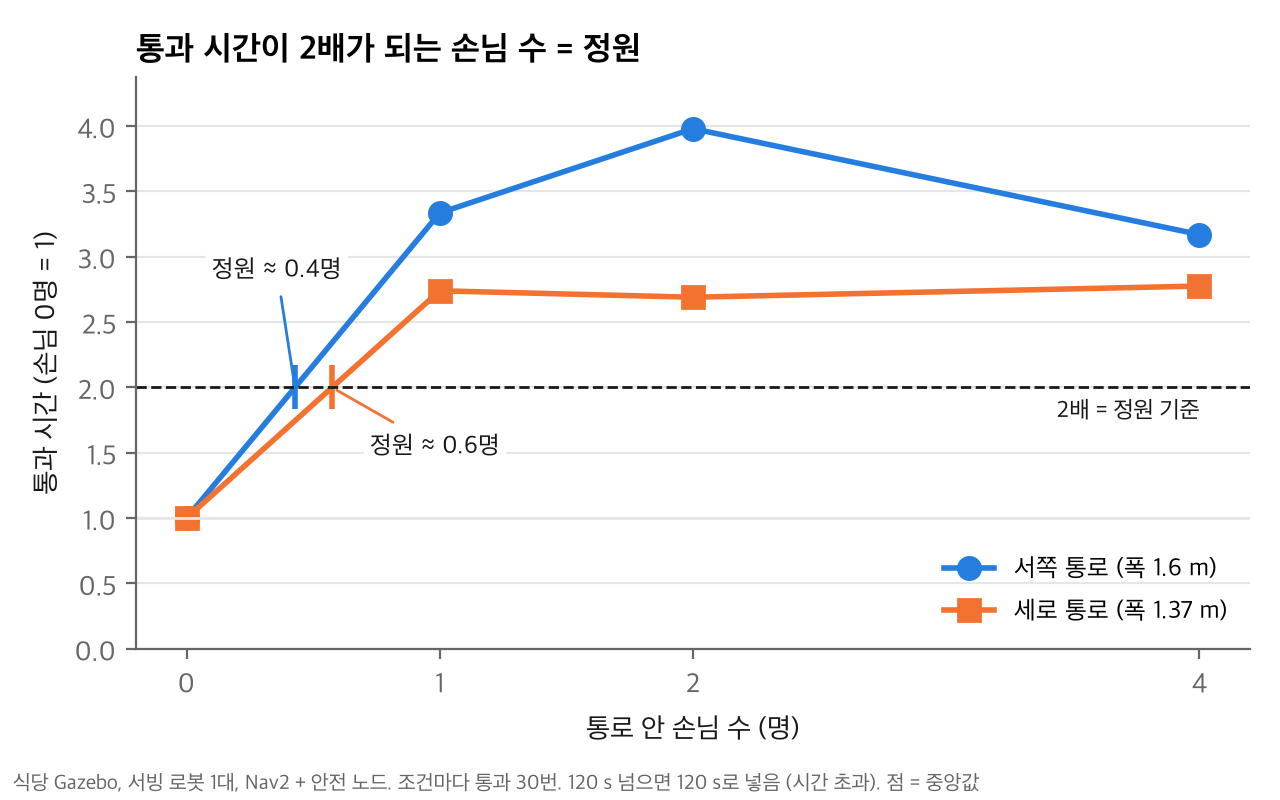
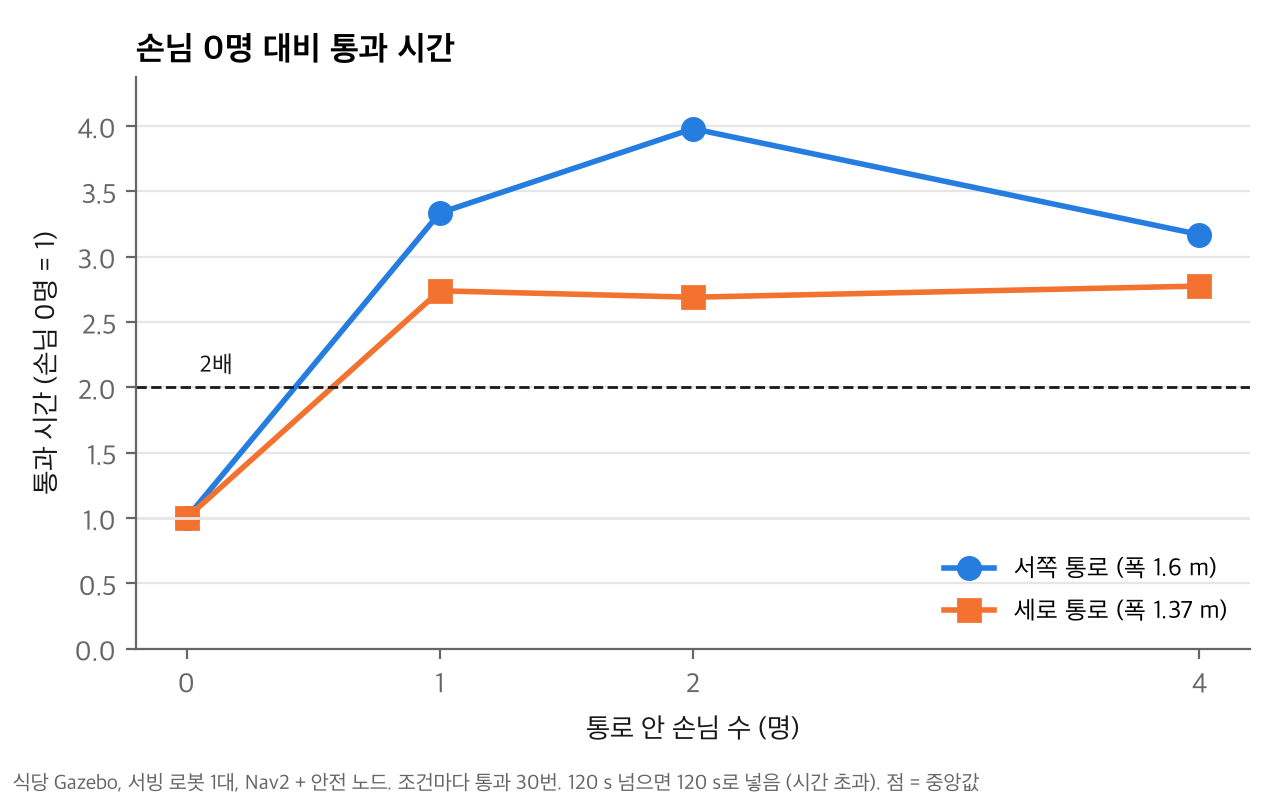
docs(experiments): 구역 정원 결과 해석 수정 — 정원 대신 교착 발견으로
손님 1명만 있어도 통과의 30~50%가 120 s 안에 못 지나가(교착), 2배 기준 0.4~0.6명은 정원으로 쓰지 않는다.
- analyze: 시간 초과를 뺀 통과만의 표 추가
- plots: E(가정 vs 측정 정원) 빼고 F(교착 비율)·G(지나간 통과만 배수) 추가, B에서 정원 표시 제거
- README: 결과를 교착 해석으로 다시 씀, 정원은 기존 값 유지·교착 수정 후 재측정

diff --git a/experiments/zone_capacity/plots.py b/experiments/zone_capacity/plots.py
@@ -8,8 +8,12 @@
   B_relative      손님 수 → 상대 통과 시간 (손님 0명 = 1) + "2배 = 정원" 기준선. 두 통로를 한 축에
   C_distribution  통과 한 번씩 (시간 초과는 세모로 제한 시간에) + 중앙값 막대
   D_within60      60 s 안에 지나간 비율
-  E_capacity      정원: 가정값(통로 길이) vs 측정값(통과 시간 2배)
-  poster          B + E 한 장 (흑백)
+  F_deadlock      120 s 안에 못 지나간 비율 (로봇 안전 정지와 손님 양보가 서로 기다리는 교착)
+  G_relative_ok   B와 같되 시간 초과를 뺀 통과만 (교착을 빼면 얼마나 느려지나)
+  poster          B + F 한 장 (흑백)
+
+11/28 결과에서 "2배가 되는 손님 수"는 0.4~0.6명이었지만 시간 초과(교착)가 30~50%라 정원으로 쓰지 않았다.
+그래서 정원 표시는 그리지 않고, 2배 선만 기준으로 둔다 (README "결과")
 """
 
 import argparse
@@ -38,7 +42,6 @@ plt.rcParams.update({'axes.unicode_minus': False, 'axes.spines.top': False, 'axe
                      'axes.titlelocation': 'left'})
 
 NAMES = {'west_aisle': '서쪽 통로 (폭 1.6 m)', 'aisle_3': '세로 통로 (폭 1.37 m)'}
-ASSUMED = {'west_aisle': 3, 'aisle_3': 3}       # 7·12구역의 가정값 (통로 길이 2.3 m당 1명)
 STYLE = {   # 통로별 고정 순서: 컬러는 기본 팔레트 1·2번, 흑백은 검정·회색 + 마커 모양
     'color': {'west_aisle': dict(c='#257de0', m='o', ls='-'), 'aisle_3': dict(c='#f47230', m='s', ls='-')},
     'mono': {'west_aisle': dict(c='#191919', m='o', ls='-'), 'aisle_3': dict(c='#8a8a8a', m='s', ls='--')},
@@ -65,7 +68,9 @@ def stats(data):
             xs = [p['time_s'] for p in sel]
             cens = sum(1 for p in sel if p['censored'])
             lo, hi = boot_ci(xs)
+            ok = [p['time_s'] for p in sel if not p['censored']]
             rows.append({'n': n, 'xs': xs, 'med': median(xs), 'lo': lo, 'hi': hi, 'k': len(xs), 'cens': cens,
+                         'ok_med': median(ok) if ok else None, 'ok_k': len(ok),
                          'within60': sum(1 for p in sel if not p['censored'] and p['time_s'] <= 60) / len(sel)})
         t0 = rows[0]['med']
         out[z] = {'rows': rows, 't0': t0, 'fit': summary[z].get('fit'), 'dbl': summary[z].get('doubling_n')}
@@ -112,38 +117,32 @@ def plot_a(zones, st, mode, out):
     plt.close(fig)
 
 
-def plot_b(zones, st, mode, out, ax=None):
+def plot_b(zones, st, mode, out, ax=None, key='med'):
+    """key='med': 시간 초과를 120 s로 넣은 중앙값 (B), 'ok_med': 시간 초과를 뺀 통과만의 중앙값 (G)"""
     own = ax is None
     if own:
         fig, ax = plt.subplots(figsize=(6.4, 4.0))
     top = 1
     for z in zones:
         s, rows, t0 = STYLE[mode][z], st[z]['rows'], st[z]['t0']
-        ns = [r['n'] for r in rows]
-        ys = [r['med'] / t0 for r in rows]
+        t0 = rows[0][key]
+        pts = [(r['n'], r[key] / t0) for r in rows if r[key] is not None]
+        ns, ys = [n for n, _ in pts], [y for _, y in pts]
         top = max(top, max(ys))
         ax.plot(ns, ys, marker=s['m'], ls=s['ls'], color=s['c'], lw=2, ms=8, label=NAMES[z])
-        d = st[z]['dbl']
-        if d is not None:
-            ax.plot([d], [2.0], marker='|', color=s['c'], ms=16, mew=2)
-            first = z == zones[0]
-            # 첫 통로는 왼쪽 위(축 숫자와 안 겹치게 x 0.1부터), 둘째는 오른쪽 아래
-            ax.annotate(f'정원 ≈ {d:.1f}명', (d, 2.0), xytext=(0.1, 2.9) if first else (d + 0.15, 1.55),
-                        textcoords='data', ha='left', va='center', fontsize=9, color='#191919', arrowprops=dict(arrowstyle='-', color=s['c'], lw=1),
-                        bbox=dict(boxstyle='round,pad=0.25', fc='white', ec='none'))
     ax.axhline(2.0, color='#191919', lw=1, ls='--')
-    xmax = max(r['n'] for z in zones for r in st[z]['rows'])
-    ax.text(xmax, 1.93, '2배 = 정원 기준', fontsize=8.5, color='#191919', va='top', ha='right')
+    ax.text(0.05, 2.06, '2배', fontsize=8.5, color='#191919', va='bottom', ha='left')   # 왼쪽 끝은 선이 1 근처라 비어 있다
     ax.axhline(1.0, color=GRID, lw=1)
     ax.set_xlabel('통로 안 손님 수 (명)')
     ax.set_ylabel('통과 시간 (손님 0명 = 1)')
-    ax.set_title('통과 시간이 2배가 되는 손님 수 = 정원')
+    ax.set_title('손님 0명 대비 통과 시간' if key == 'med' else '시간 초과를 뺀 통과만: 손님 0명 대비')
     ax.set_xticks(sorted({r['n'] for z in zones for r in st[z]['rows']}))
     ax.set_ylim(0, max(4.0, top * 1.1))
     grid(ax)
     ax.legend(frameon=False, fontsize=9, loc='lower right')
     if own:
-        note(fig, FOOT.format(k=st[zones[0]]['rows'][0]['k']) + '. 점 = 중앙값')
+        extra = '. 점 = 중앙값' if key == 'med' else '. 점 = 지나간 통과만의 중앙값'
+        note(fig, FOOT.format(k=st[zones[0]]['rows'][0]['k']) + extra)
         fig.tight_layout(rect=(0, 0.03, 1, 1))
         fig.savefig(out, dpi=200)
         plt.close(fig)
@@ -201,40 +200,40 @@ def plot_d(zones, st, mode, out):
     plt.close(fig)
 
 
-def plot_e(zones, st, mode, out, ax=None):
+def plot_f(zones, st, mode, out, ax=None):
     own = ax is None
     if own:
-        fig, ax = plt.subplots(figsize=(5.6, 3.2))
-    ys = list(range(len(zones)))[::-1]
-    for y, z in zip(ys, zones):
+        fig, ax = plt.subplots(figsize=(6.4, 3.8))
+    ns = sorted({r['n'] for z in zones for r in st[z]['rows']})
+    w = 0.36
+    for i, z in enumerate(zones):
         s = STYLE[mode][z]
-        a, m = ASSUMED[z], st[z]['dbl']
-        ax.plot([m if m is not None else 0, a], [y, y], color=GRID, lw=6, solid_capstyle='round')
-        ax.plot([a], [y], marker='o', ms=11, mfc='white', mec=TEXT2, mew=2, ls='none')
-        ax.text(a, y + 0.22, f'가정 {a}명', ha='center', fontsize=9, color=TEXT2)
-        if m is not None:
-            ax.plot([m], [y], marker=s['m'], ms=11, color=s['c'], ls='none')
-            ax.text(m, y + 0.22, f'측정 {m:.1f}명', ha='center', fontsize=9, color='#191919', fontweight='bold')
-    ax.set_yticks(ys)
-    ax.set_yticklabels([NAMES[z] for z in zones])
-    ax.set_xlim(0, max(ASSUMED.values()) + 0.8)
-    ax.set_ylim(-0.6, len(zones) - 0.3)
-    ax.set_xlabel('정원 (명): 통과 시간이 2배가 되는 손님 수')
-    ax.set_title('정원: 가정값과 측정값')
-    ax.spines['left'].set_visible(False)
-    ax.tick_params(axis='y', length=0)
-    grid(ax, 'x')
+        rows = {r['n']: r for r in st[z]['rows']}
+        xs = [n + (i - (len(zones) - 1) / 2) * (w + 0.03) for n in ns]
+        ys = [rows[n]['cens'] / rows[n]['k'] * 100 if n in rows else 0 for n in ns]
+        ax.bar(xs, ys, width=w, color=s['c'], label=NAMES[z], hatch=None if mode == 'color' or i == 0 else '///',
+               edgecolor='white', lw=0)
+        for x, y in zip(xs, ys):
+            ax.text(x, y + 1.5, f'{y:.0f}%', ha='center', fontsize=8, color='#191919')
+    ax.set_xticks(ns)
+    ax.set_xlabel('통로 안 손님 수 (명)')
+    ax.set_ylabel('120 s 안에 못 지나간 비율 (%)')
+    ax.set_title('통로에서 멈춰 버린 비율 (교착)')
+    ax.set_ylim(0, 70)
+    grid(ax)
+    ax.legend(frameon=False, fontsize=9, loc='upper left')
     if own:
-        fig.tight_layout()
+        note(fig, FOOT.format(k=st[zones[0]]['rows'][0]['k']))
+        fig.tight_layout(rect=(0, 0.03, 1, 1))
         fig.savefig(out, dpi=200)
         plt.close(fig)
 
 
 def plot_poster(zones, st, out):
     plt.rcParams.update({'font.size': 12, 'axes.titlesize': 14, 'axes.labelsize': 12})
-    fig, (a1, a2) = plt.subplots(1, 2, figsize=(12, 4.6), gridspec_kw={'width_ratios': [1.4, 1]})
+    fig, (a1, a2) = plt.subplots(1, 2, figsize=(12, 4.6), gridspec_kw={'width_ratios': [1.2, 1]})
     plot_b(zones, st, 'mono', None, ax=a1)
-    plot_e(zones, st, 'mono', None, ax=a2)
+    plot_f(zones, st, 'mono', None, ax=a2)
     note(fig, FOOT.format(k=st[zones[0]]['rows'][0]['k']))
     fig.tight_layout(rect=(0, 0.04, 1, 1))
     fig.savefig(out, dpi=220)
@@ -256,12 +255,13 @@ def main():
         plot_b(zones, st, mode, out / f'B_relative_{mode}.png')
         plot_c(zones, st, mode, out / f'C_distribution_{mode}.png')
         plot_d(zones, st, mode, out / f'D_within60_{mode}.png')
-        plot_e(zones, st, mode, out / f'E_capacity_{mode}.png')
+        plot_f(zones, st, mode, out / f'F_deadlock_{mode}.png')
+        plot_b(zones, st, mode, out / f'G_relative_ok_{mode}.png', key='ok_med')
     plot_poster(zones, st, out / 'poster_mono.png')
     for z in zones:
         rows = st[z]['rows']
         print(z, ' '.join(f"n{r['n']}: 중앙값 {r['med']:.1f} [{r['lo']:.1f}, {r['hi']:.1f}] 초과 {r['cens']}/{r['k']} 60s안 {r['within60']:.0%}"
-                          for r in rows), '정원', st[z]['dbl'])
+                          for r in rows))
     return 0
 
 

diff --git a/experiments/zone_capacity/analyze.py b/experiments/zone_capacity/analyze.py
@@ -53,7 +53,12 @@ def summarize(passes):
     for zone, samples in sorted(by.items()):
         meds = medians(samples)
         cens = {n: sum(1 for p in passes if p['zone'] == zone and p['n'] == n and p['censored']) for n in samples}
+        ok = defaultdict(list)
+        for p in passes:
+            if p['zone'] == zone and not p['censored']:
+                ok[p['n']].append(p['time_s'])
         res = {'medians': meds, 'counts': {n: len(v) for n, v in samples.items()}, 'censored': cens,
+               'ok_medians': medians(ok),
                'doubling_n': doubling_point(meds)}
         try:
             res['fit'] = fit(meds)
@@ -85,6 +90,17 @@ def write_md(summary, path: Path):
         d = s['doubling_n']
         dn = f'{d:.1f}명' if d is not None else f"{max(s['medians'])}명 넘음"
         lines.append(f'| {zone} | ' + ' | '.join(cells) + f' | {fc} | {fb} | {fe} | {dn} |')
+    lines += ['', '## 시간 초과(교착)를 뺀 통과만', '',
+              '시간 초과가 많으면 위 중앙값은 혼잡보다 교착(로봇 안전 정지와 손님 양보가 서로 기다림)을 잰다. 괄호는 지나간 통과 수.', '',
+              '| 통로 | ' + ' | '.join(f'손님 {n}명' for n in ns) + ' |', '| --- |' + ' --- |' * len(ns)]
+    for zone, s in summary.items():
+        ok = s.get('ok_medians', {})
+        t0 = ok.get(min(ns))
+        cells = []
+        for n in ns:
+            v = ok.get(n)
+            cells.append('-' if v is None else f"{v:.1f} s (×{v / t0:.1f}, {s['counts'][n] - s['censored'][n]})")
+        lines.append(f'| {zone} | ' + ' | '.join(cells) + ' |')
     path.write_text('\n'.join(lines) + '\n')
 
 

diff --git a/experiments/zone_capacity/README.md b/experiments/zone_capacity/README.md
@@ -45,20 +45,30 @@ python3 -m pytest experiments/zone_capacity -q
 
 ## 결과 (11/28, seed 1·2·3, 조건마다 통과 30번)
 
-| 통로 | 손님 0명 | 1명 | 2명 | 4명 | 정원 (직접 읽기) |
-| --- | --- | --- | --- | --- | --- |
-| `west_aisle` (1.6 m) | 24.7 s | 82.5 s (×3.3, 초과 9) | 98.5 s (×4.0, 초과 9) | 78.4 s (×3.2, 초과 6) | **0.4명** |
-| `aisle_3` (1.37 m) | 43.2 s | 118.4 s (×2.7, 초과 15) | 116.3 s (×2.7, 초과 15) | 120.0 s (×2.8, 초과 16) | **0.6명** |
+**결론: 정원 값으로 쓰지 않는다.** 숫자로는 "2배가 되는 손님 수"가 0.4~0.6명이지만, 손님이 있으면 통과의 30~50%가
+120 s 안에 못 지나간다(교착). 이 실험이 잰 것은 통로 혼잡보다 **로봇 안전 정지와 손님 양보가 서로 기다리다 멈추는 교착**이다.
+정원은 통로 길이 어림값(통로 3명, `aisle_5` 2명)을 그대로 두고, 교착을 고친 뒤 다시 잰다.
 
-- 손님 **1명**에서 이미 2배를 넘고, 그 뒤로는 비슷하다 (BPR β 0.3~0.45, 격자 끝이라 맞춤값보다 직접 읽기를 쓴다)
-- seed 1만 0.6·0.7명, seed 1·2 0.5·0.7명, seed 1·2·3 0.4·0.6명으로 결론이 흔들리지 않는다
-- 원인은 안전 정지와 손님 양보(1.2 m)가 서로 기다리는 것이다. 실행 하나당 "진행 경로에 장애물" 경고가
-  손님 0명 0~49번, 1명 26~261번, 2~4명 80~351번으로 늘어난다
-- 세로 통로는 손님이 있으면 절반이 시간 초과라 배수는 최소값이다
+| 통로 | 손님 0명 | 1명 | 2명 | 4명 |
+| --- | --- | --- | --- | --- |
+| `west_aisle` (1.6 m) 중앙값 | 24.7 s | 82.5 s (×3.3) | 98.5 s (×4.0) | 78.4 s (×3.2) |
+| 　120 s 안에 못 지나감 | 0% | 30% | 30% | 20% |
+| 　지나간 통과만 | 24.7 s | 53.5 s (×2.2) | 91.7 s (×3.7) | 74.5 s (×3.0) |
+| `aisle_3` (1.37 m) 중앙값 | 43.2 s | 118.4 s (×2.7) | 116.3 s (×2.7) | 120.0 s (×2.8) |
+| 　120 s 안에 못 지나감 | 0% | 50% | 50% | 53% |
+| 　지나간 통과만 | 43.2 s | 50.4 s (×1.2) | 84.3 s (×2.0) | 76.1 s (×1.8) |
 
-표·원값은 `results.md`·`results.json`, 그래프는 `plots/`.
+- 손님 0명은 30번 모두 지나간다. 손님이 1명만 있어도 교착이 30~50%로 뛰고, 그 뒤로는 손님 수와 거의 상관없다
+- 실행 하나당 안전 정지 경고("진행 경로에 장애물")가 손님 0명 0~49번 → 1명 26~261번 → 2~4명 80~351번으로 는다.
+  손님이 로봇 경로에 들어오면 로봇이 서고, 손님은 로봇에게서 1.2 m 떨어지려고 비켜 서면서 서로 기다린다
+- 교착을 빼고 지나간 통과만 보면 세로 통로는 손님 2명에서 2배(정원 약 2명), 서쪽 통로는 1명에서 2배다. 다만 손님 0명
+  통과가 빠른(24.7 s) 서쪽 통로가 배수로는 더 크게 나와, 더 넓은 통로의 정원이 더 작아지는 모순이 있다
+- 손님이 2분 내내 통로 안을 서성이는 조건이라 실제(몇 초 만에 지나감)보다 나쁜 쪽이다
 
-## 결과를 쓰는 곳
+**다시 잴 때**: 교착(안전 정지·손님 양보) 수정이 들어간 커밋에서, 손님이 통로를 지나가는 패턴으로 바꿔 잰다.
+표·원값은 `results.md`·`results.json`, 그래프는 `plots/` (F = 교착 비율, G = 지나간 통과만의 배수).
+
+## 결과를 쓰는 곳 (다시 재서 교착이 줄었을 때)
 
 - **정원**: 구역 종류별 C를 `amr_fleet_manager/config/congestion_zones_restaurant.yaml`에 넣는다. 잰 세 통로와 모양이 같은
   구역에 같은 값을 쓴다 (서쪽 통로 → `west_aisle`, 폭 1.37 m 세로 통로 → `aisle_1`~`aisle_4`, 폭 1.0 m → `aisle_5`)

diff --git a/experiments/zone_capacity/results.md b/experiments/zone_capacity/results.md
@@ -7,3 +7,12 @@
 | --- | --- | --- | --- | --- | --- | --- | --- | --- |
 | aisle_3 | 43.2 s (30/0) | 118.4 s (30/15) | 116.3 s (30/15) | 120.0 s (30/16) | 0.5명 (격자 끝) | 0.30 | 12% | 0.6명 |
 | west_aisle | 24.7 s (30/0) | 82.5 s (30/9) | 98.5 s (30/9) | 78.4 s (30/6) | 0.5명 (격자 끝) | 0.45 | 24% | 0.4명 |
+
+## 시간 초과(교착)를 뺀 통과만
+
+시간 초과가 많으면 위 중앙값은 혼잡보다 교착(로봇 안전 정지와 손님 양보가 서로 기다림)을 잰다. 괄호는 지나간 통과 수.
+
+| 통로 | 손님 0명 | 손님 1명 | 손님 2명 | 손님 4명 |
+| --- | --- | --- | --- | --- |
+| aisle_3 | 43.2 s (×1.0, 30) | 50.4 s (×1.2, 15) | 84.3 s (×2.0, 15) | 76.1 s (×1.8, 14) |
+| west_aisle | 24.7 s (×1.0, 30) | 53.5 s (×2.2, 21) | 91.7 s (×3.7, 21) | 74.5 s (×3.0, 24) |
